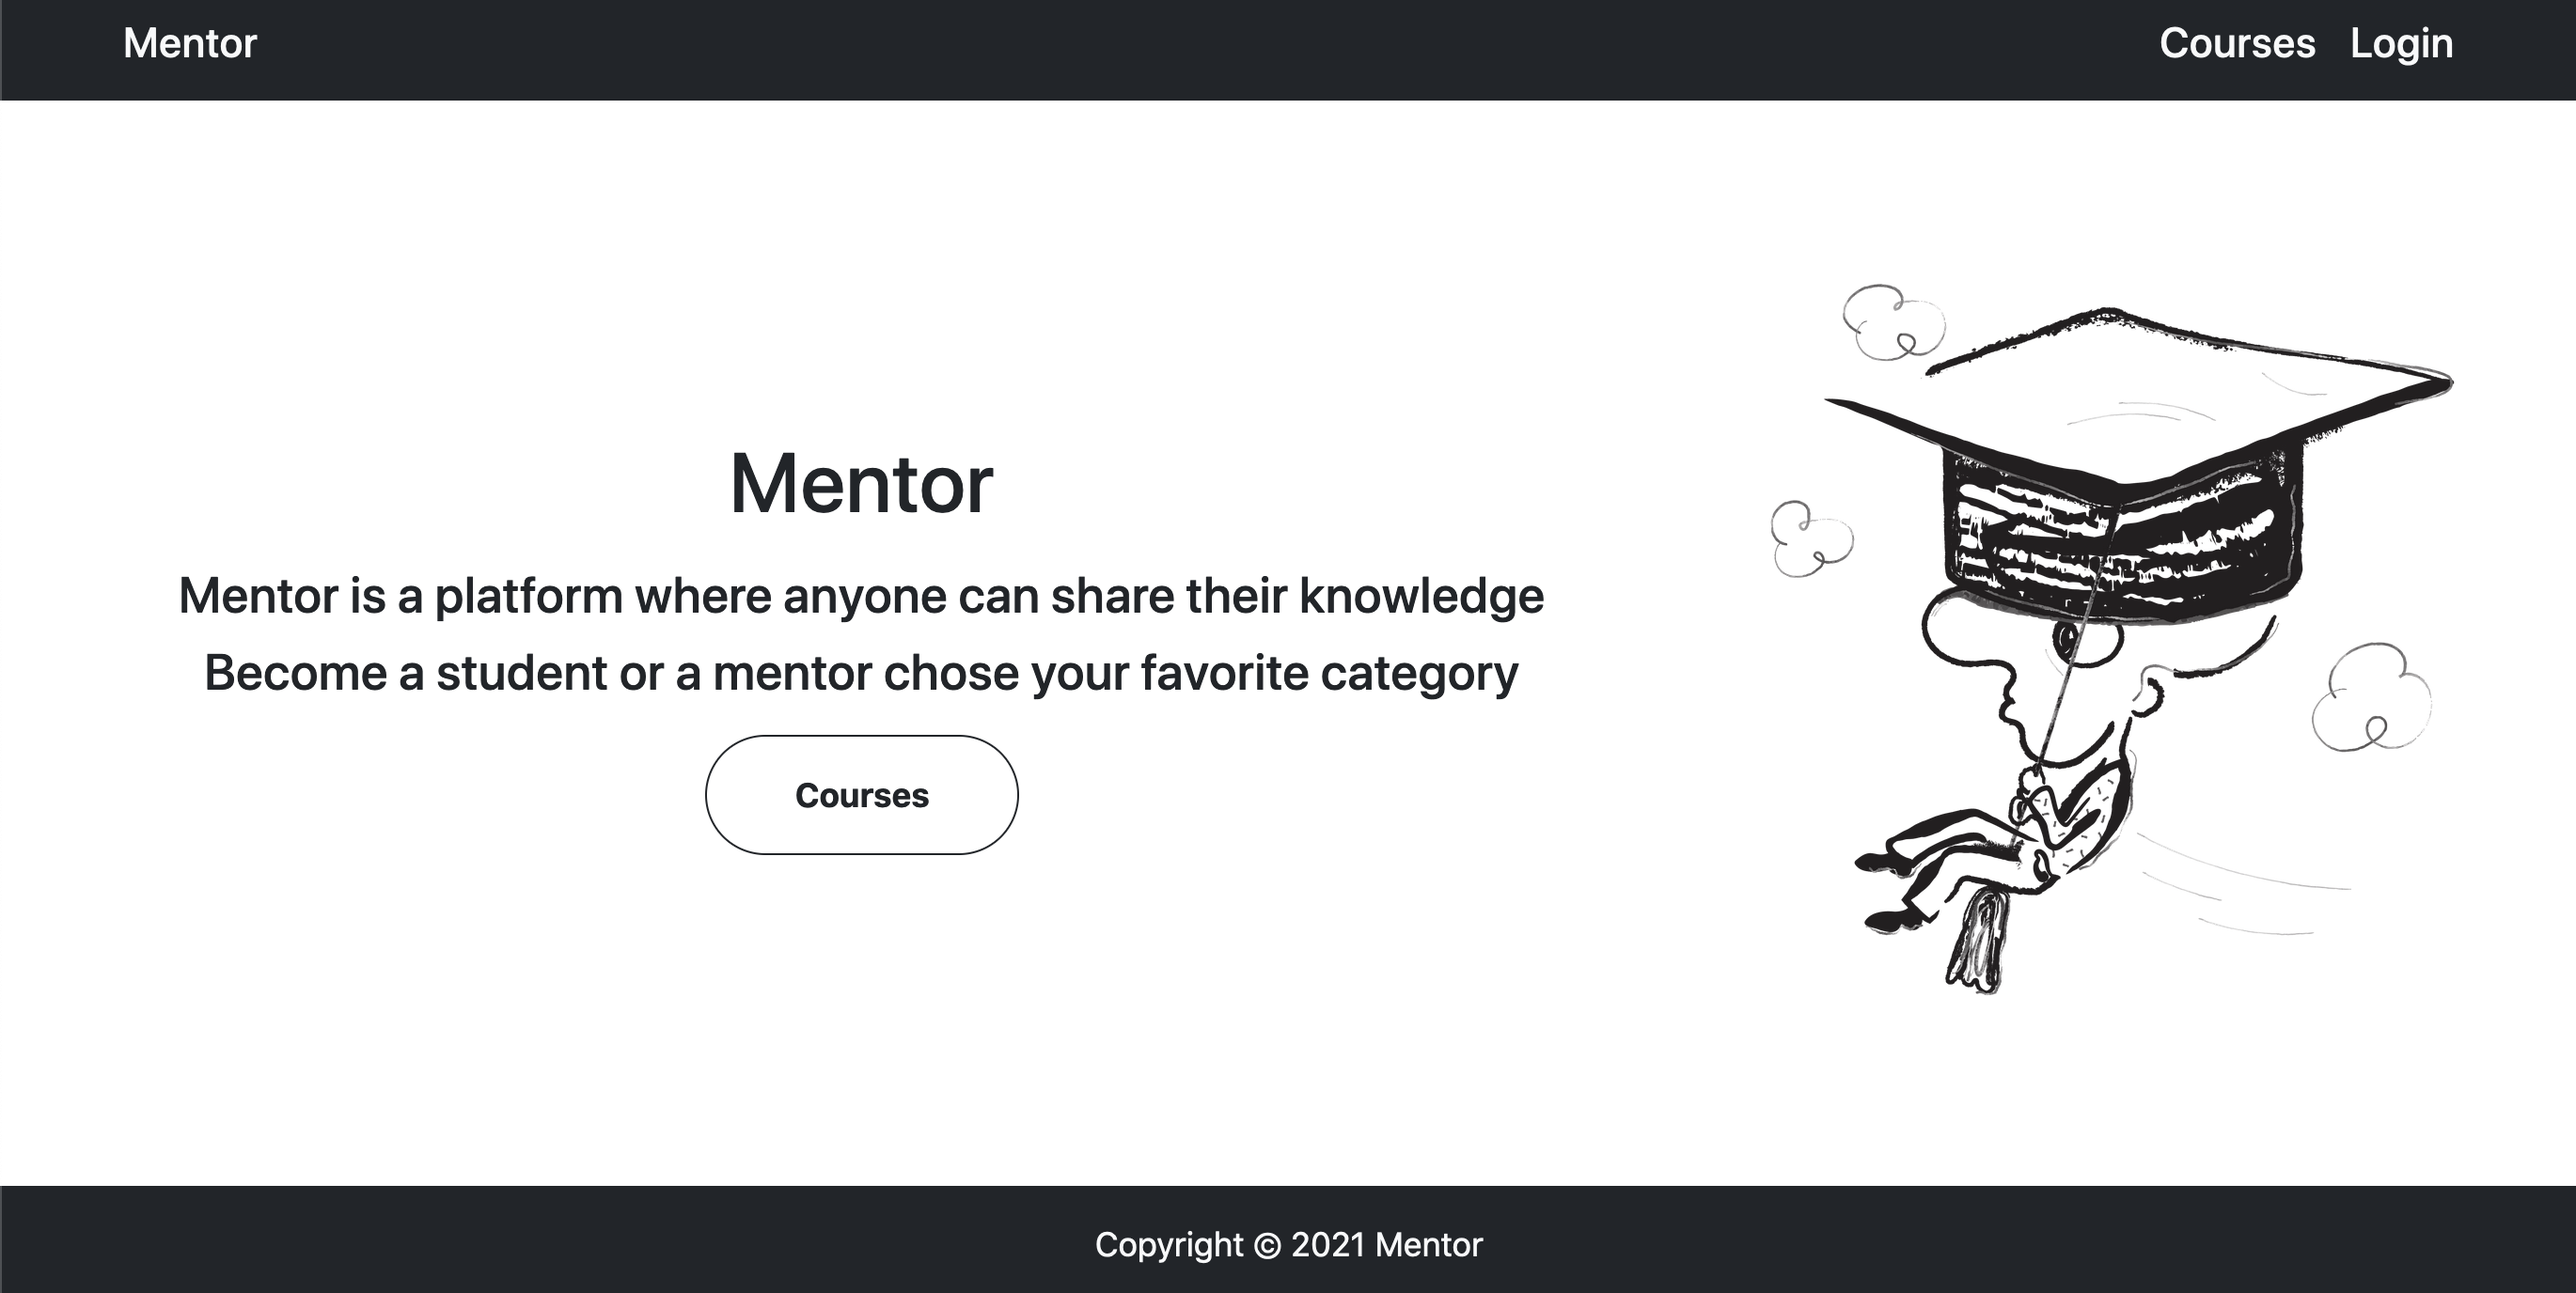
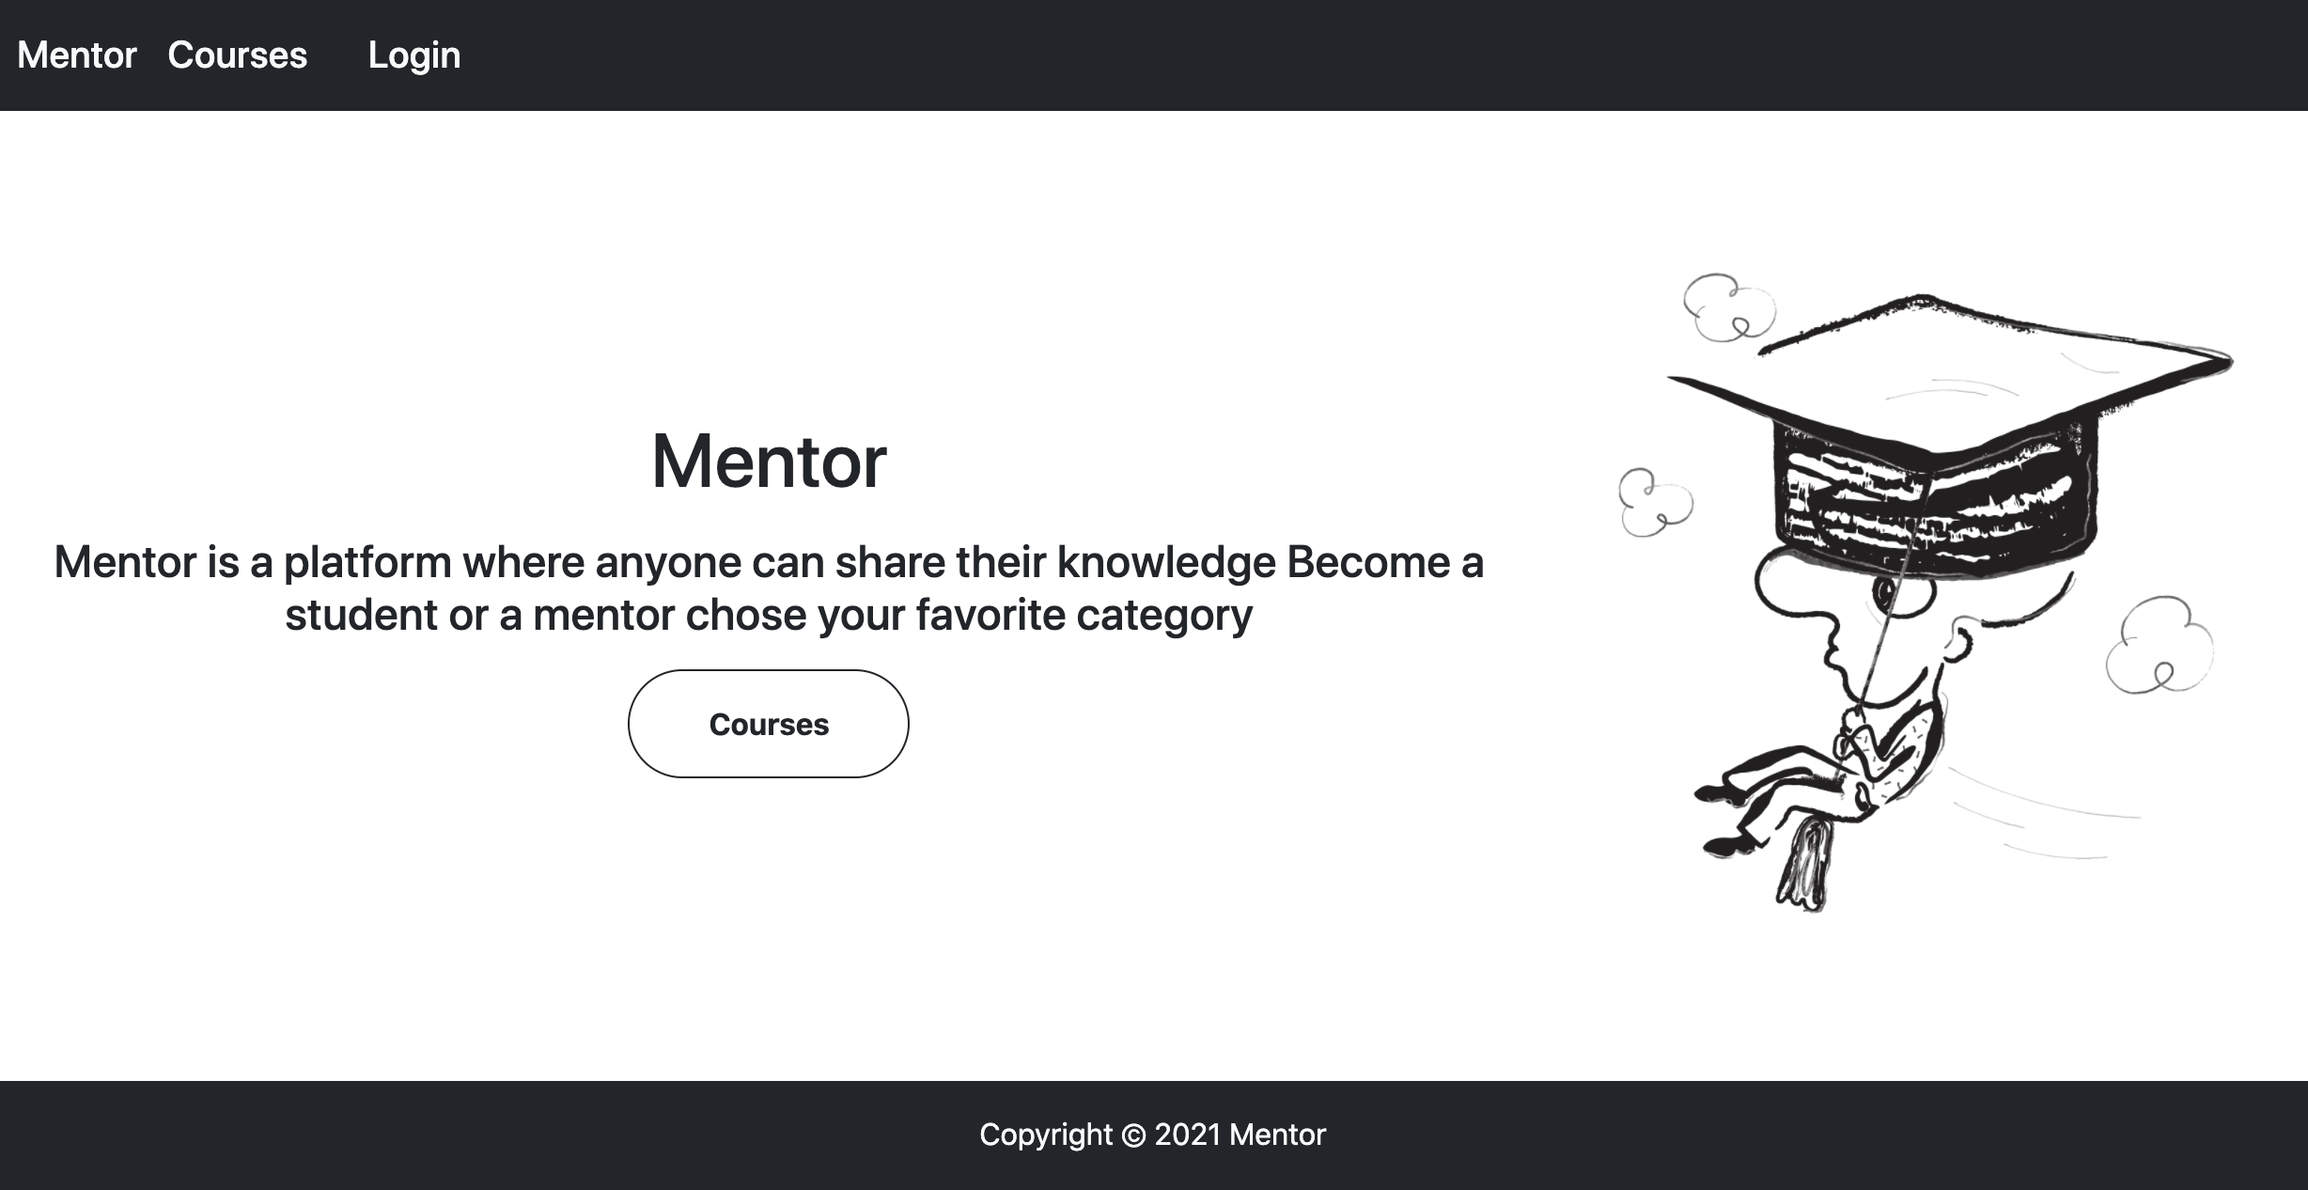
add search request, resize home ilustrate, add margin to dropdown

diff --git a/resources/sass/app.scss b/resources/sass/app.scss
@@ -38,9 +38,20 @@ footer, nav {
     color: #69d2f1;
 }
 
-@media screen and (max-width: 600px) {
-    .dropdown-menu {
+@media screen and (max-width: 991px) {
+    #homeIlustrate {
+        width: 300px;
+    }
+
+    .navbar-collapse {
+        margin-top: 8px;
         z-index: 1;
         position: relative !important;
+    }
+}
+
+@media screen and (max-width: 930px) {
+    #homeIlustrate {
+        width: 250px;
     }
 }

diff --git a/resources/views/platform/course/search.blade.php b/resources/views/platform/course/search.blade.php
@@ -13,7 +13,7 @@
         <form action="{{ route('platform.course.search') }}" method="GET">
             <div class="row g-1 justify-content-end">
                 <div class="col-auto">
-                    <input type="search" name="q" class="form-control" placeholder="Search course...">
+                    <input type="search" name="q" class="form-control border-dark search-input" placeholder="Search course...">
                 </div>
                 <div class="col-auto">
                     <button type="submit" class="btn btn-outline-dark">
@@ -22,6 +22,12 @@
                 </div>
             </div>
         </form>
+        @error('q')
+            <div class="alert alert-danger mt-1">
+                {{ $message }}
+            </div>
+        @enderror
+
         @forelse ($courses as $course)
             <div class="mt-4">
                 <div class="mt-3">

diff --git a/app/Http/Controllers/Platform/CourseController.php b/app/Http/Controllers/Platform/CourseController.php
@@ -6,12 +6,12 @@ namespace App\Http\Controllers\Platform;
 
 use App\Http\Controllers\Controller;
 use App\Http\Requests\CourseRequest;
+use App\Http\Requests\SearchRequest;
 use App\Models\Category;
 use App\Models\Course;
 use App\Services\CourseService;
 use Illuminate\Contracts\View\View;
 use Illuminate\Http\RedirectResponse;
-use Illuminate\Http\Request;
 use Illuminate\Support\Facades\Auth;
 
 class CourseController extends Controller
@@ -66,7 +66,7 @@ class CourseController extends Controller
         return back()->with('status', 'You have successfully deleted course');
     }
 
-    public function search(Request $request, CourseService $courseService): View
+    public function search(SearchRequest $request, CourseService $courseService): View
     {
         $courses = $courseService->searchCourse($request);
 

diff --git a/resources/views/platform/courses.blade.php b/resources/views/platform/courses.blade.php
@@ -22,6 +22,12 @@
                 </div>
             </div>
         </form>
+        @error('q')
+            <div class="alert alert-danger mt-1">
+                {{ $message }}
+            </div>
+        @enderror
+
         @forelse ($categories as $category)
             <h2 class="mt-5">{{ $category->name }}</h2>
             @forelse ($category->courses()->with('rates', 'author')->get() as $course)

diff --git a/resources/views/home.blade.php b/resources/views/home.blade.php
@@ -16,7 +16,7 @@
                 </div>
             </div>
             <div class="col-md-4 text-center">
-                <img src="{{ asset('images/homeIlustrate.png') }}" width="350px" height="350px">
+                <img src="{{ asset('images/homeIlustrate.png') }}" width="350px" height="350px" id="homeIlustrate">
             </div>
         </div>
     </main>

diff --git a/resources/views/platform/course/index.blade.php b/resources/views/platform/course/index.blade.php
@@ -16,7 +16,7 @@
             </div>
         @endif
         <div class="text-center">
-            <div class="d-flex justify-content-center">
+            <div class="d-flex justify-content-center mt-2">
                 <h2>{{ $course->title }}</h2>
                 @auth
                     <div class="px-3">

diff --git a/app/Http/Requests/SearchRequest.php b/app/Http/Requests/SearchRequest.php
@@ -1,0 +1,15 @@
+<?php
+
+namespace App\Http\Requests;
+
+use Illuminate\Foundation\Http\FormRequest;
+
+class SearchRequest extends FormRequest
+{
+    public function rules(): array
+    {
+        return [
+            'q' => 'required',
+        ];
+    }
+}
